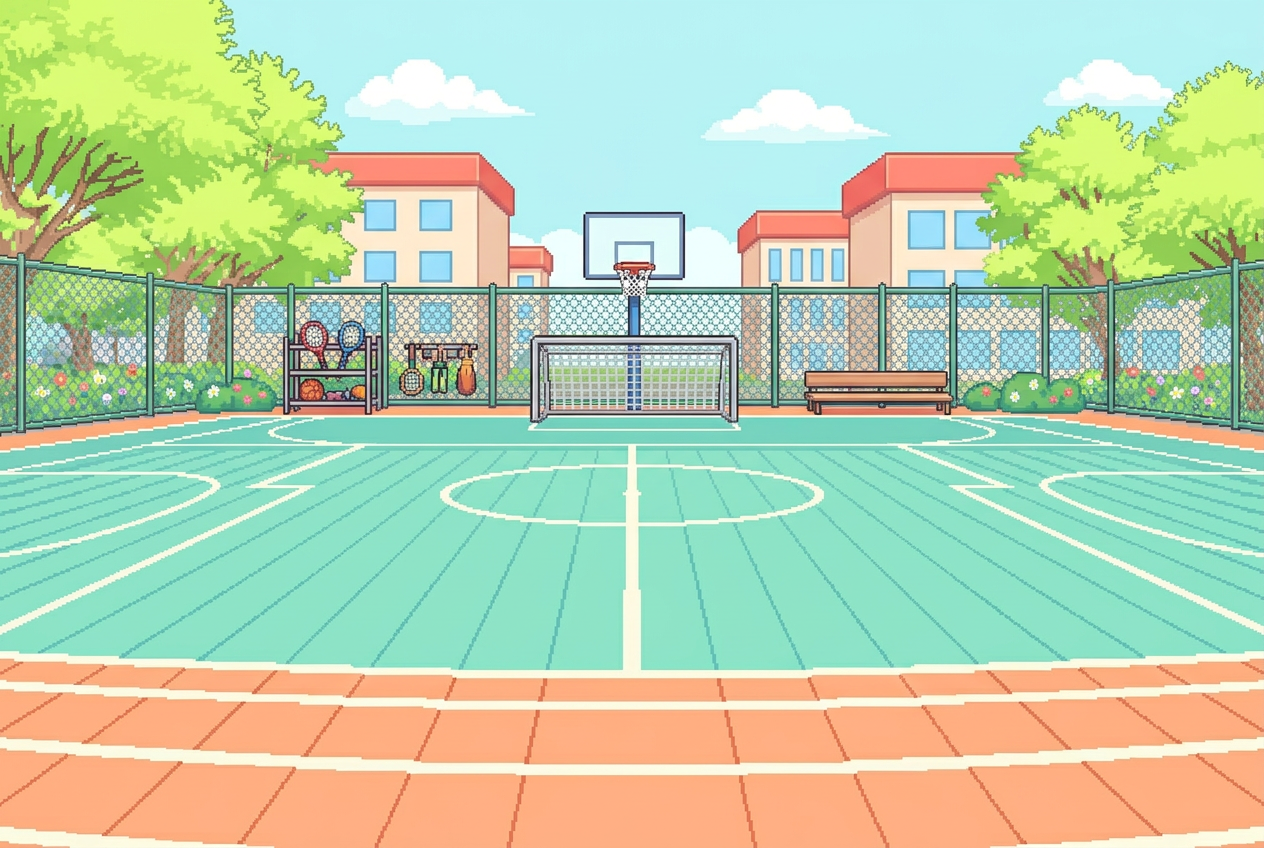
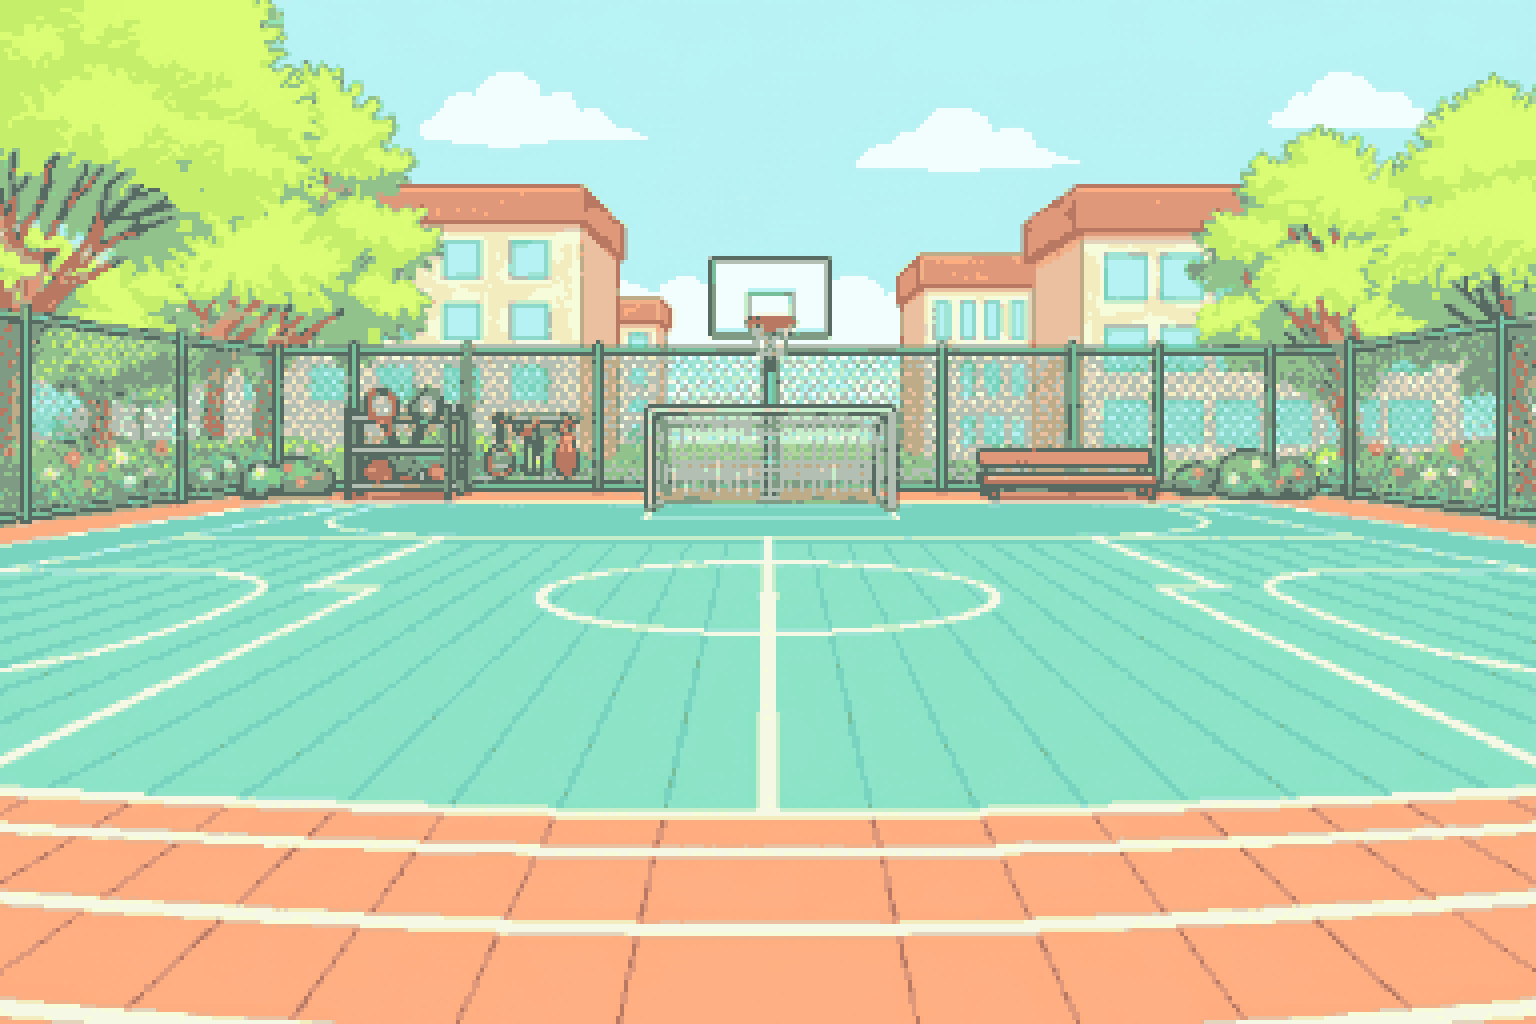
Changes

diff --git a/src/components/DodgeballGame.tsx b/src/components/DodgeballGame.tsx
@@ -1,5 +1,5 @@
 import { useCallback, useEffect, useRef, useState } from "react";
-import courtImg from "@/assets/pixel-court.jpg";
+import courtImg from "@/assets/bright-pixel-court.jpg";
 import kid1 from "@/assets/pixel-kid1.png";
 import kid2 from "@/assets/pixel-kid2.png";
 import ballImg from "@/assets/pixel-ball.png";
